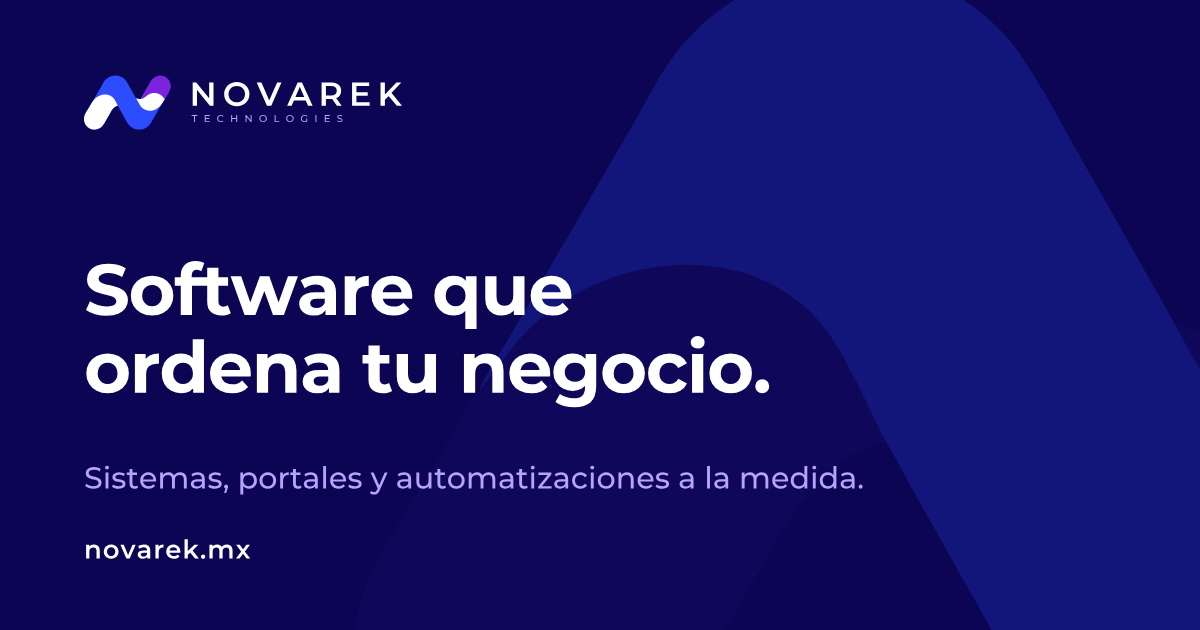
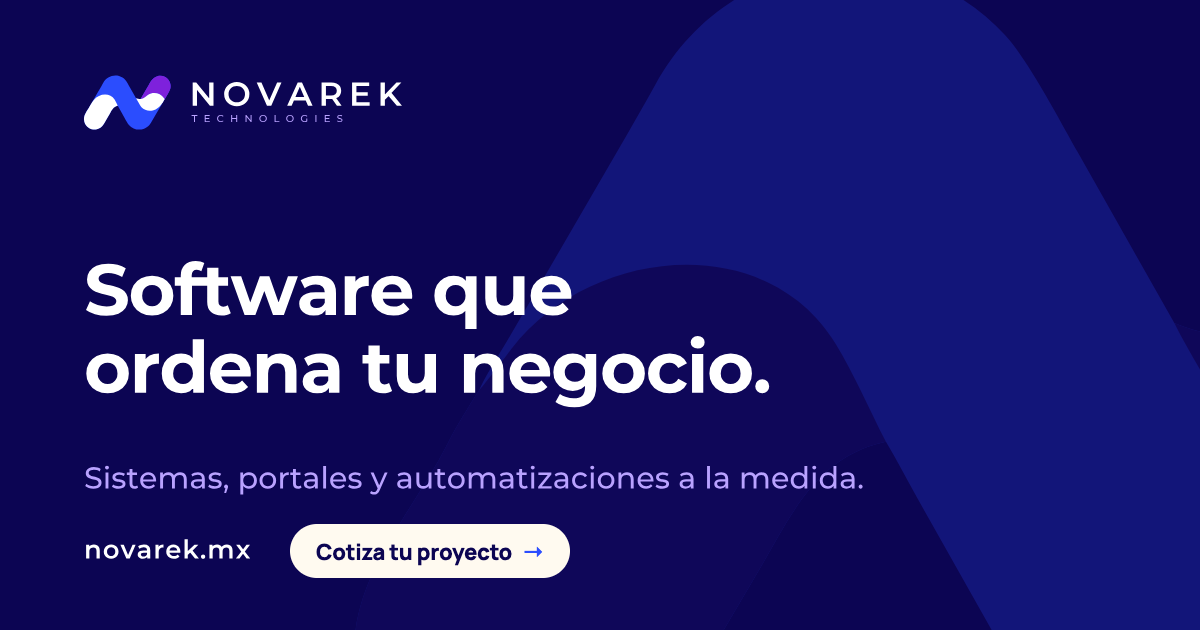
fix(seo): shorten meta titles and descriptions, add CTA to OG image
- Home uses the shared company meta defaults: title 66 -> 51, description 151 -> 112
- HERRAGA case summary 138 -> 115 chars; cases schema caps summary at 125
- OG image gains a 'Cotiza tu proyecto' call to action

Changed region(s): [[0.2158, 0.8143, 0.4933, 0.9349]]

diff --git a/src/config/company.ts b/src/config/company.ts
@@ -53,10 +53,10 @@ export const company = {
 		github: "",
 	},
 
-	// --- SEO / meta ---
+	// --- SEO / meta (title ≤ 60 y description ≤ 125 caracteres para que no se corten) ---
 	metaTitle: "Software a medida para ordenar tu negocio | Novarek",
 	metaDescription:
-		"Novarek crea sistemas, portales y automatizaciones para empresas que quieren trabajar con más orden, menos tareas manuales y mejor atención a clientes.",
+		"Novarek crea sistemas, portales y automatizaciones a medida para trabajar con más orden y menos tareas manuales.",
 
 	// --- Año actual (footer) ---
 	year: "2026",

diff --git a/src/content.config.ts b/src/content.config.ts
@@ -11,8 +11,8 @@ const cases = defineCollection({
 			title: z.string(),
 			client: z.string(),
 			sector: z.string(),
-			/** One or two sentences for cards and the page lede. */
-			summary: z.string(),
+			/** Used for cards, the page lede and the meta description: ≤ 125 chars so social previews don't truncate it. */
+			summary: z.string().max(125),
 			url: z.url(),
 			cover: image(),
 			coverAlt: z.string(),

diff --git a/src/content/cases/herraga.md b/src/content/cases/herraga.md
@@ -2,7 +2,7 @@
 title: "HERRAGA Refacciones: del catálogo por motor a la cotización en WhatsApp."
 client: "HERRAGA Refacciones"
 sector: "Refacciones diésel"
-summary: "Diseñamos y construimos el sitio de HERRAGA para que sus clientes encuentren la pieza de su motor y pidan cotización directo por WhatsApp."
+summary: "Diseñamos el sitio de HERRAGA para que sus clientes encuentren la pieza de su motor y coticen directo por WhatsApp."
 url: "https://www.herraga.com"
 cover: "../../assets/cases/herraga-sitio.webp"
 coverAlt: "Página de inicio de herraga.com: refacciones diésel para motores de rango pesado, con botones para cotizar por WhatsApp y buscar por motor."
